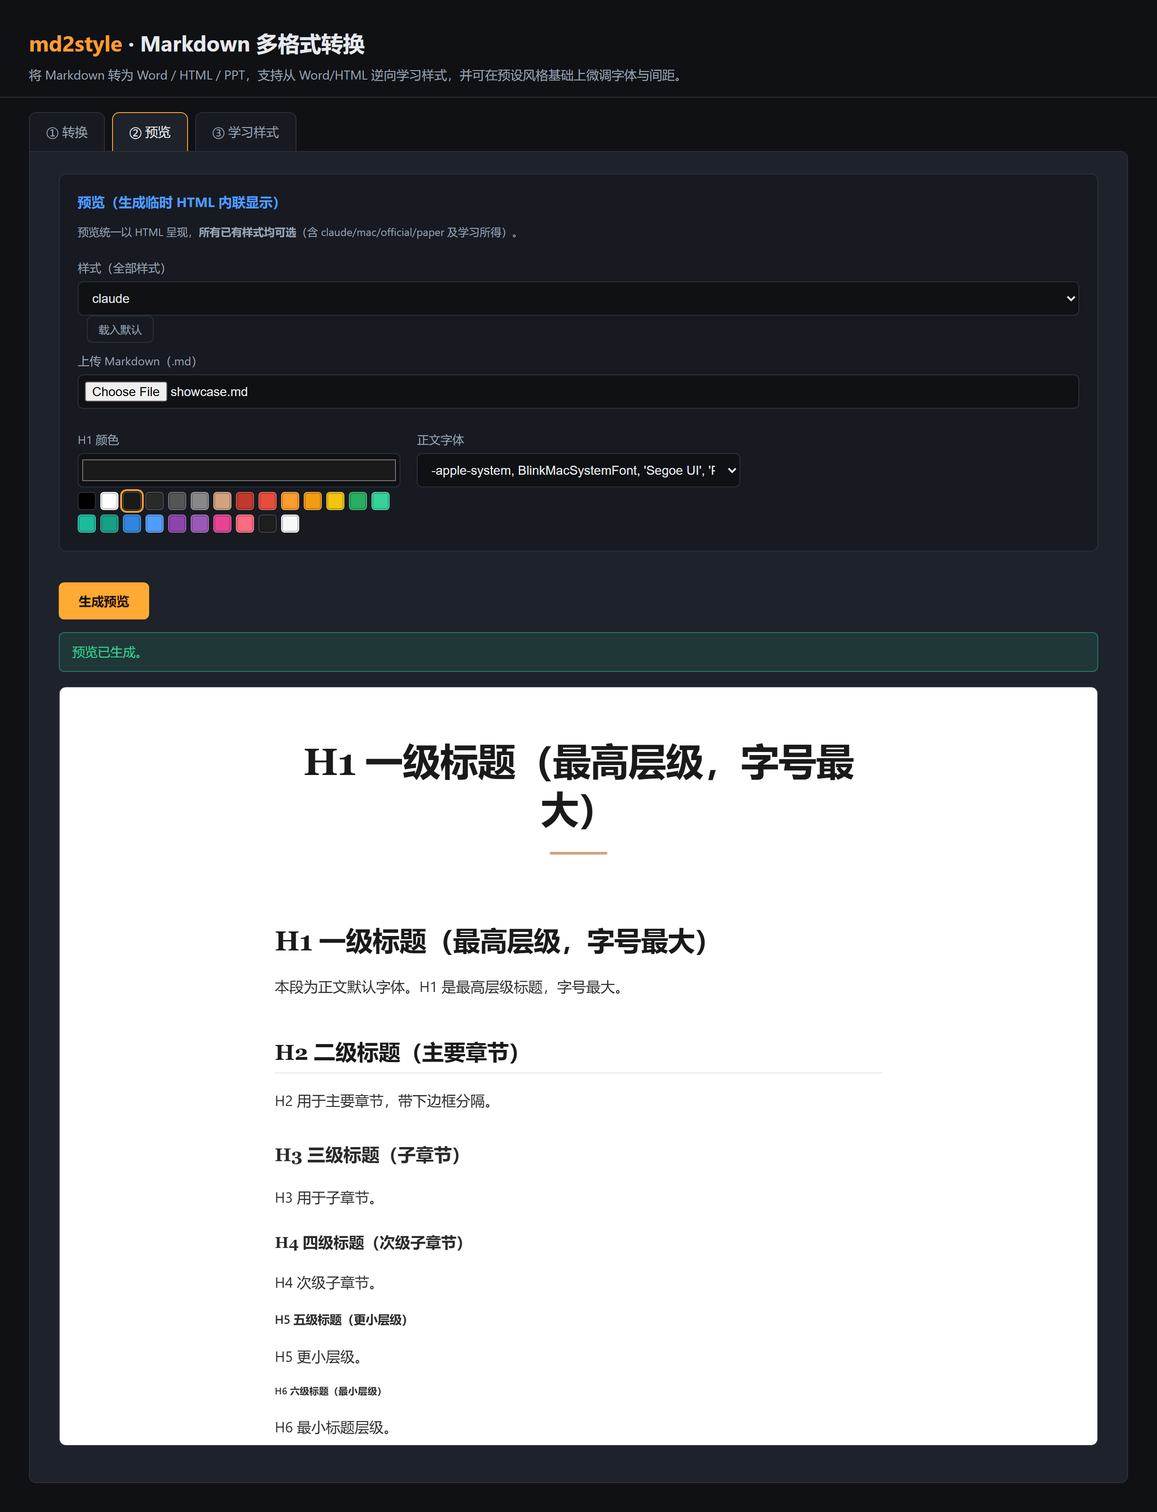
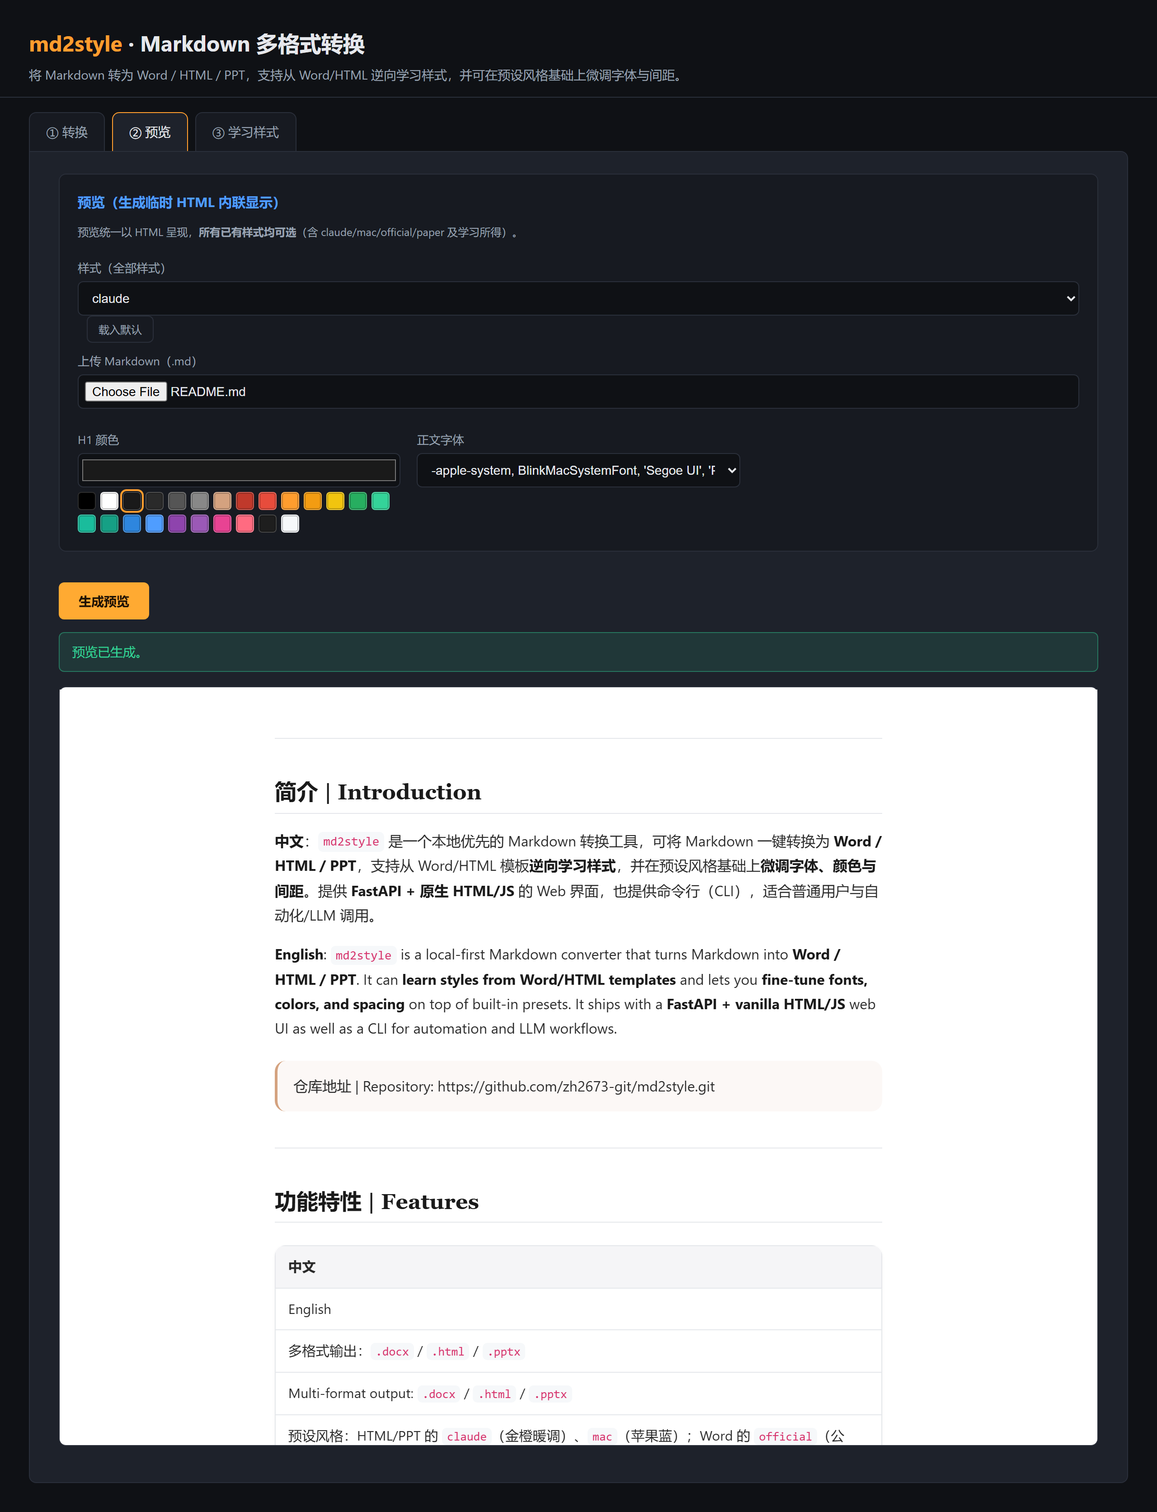
docs: 用README作为预览样本重截，并将截图拼成组合图

diff --git a/examples/_upload_tmp.preview.html b/examples/_upload_tmp.preview.html
@@ -1,0 +1,249 @@
+<!DOCTYPE html>
+<html lang="zh">
+<head>
+<meta charset="utf-8">
+<meta name="viewport" content="width=device-width, initial-scale=1">
+<title>md2style</title>
+<style>
+pre { line-height: 125%; }
+td.linenos .normal { color: inherit; background-color: transparent; padding-left: 5px; padding-right: 5px; }
+span.linenos { color: inherit; background-color: transparent; padding-left: 5px; padding-right: 5px; }
+td.linenos .special { color: #000000; background-color: #ffffc0; padding-left: 5px; padding-right: 5px; }
+span.linenos.special { color: #000000; background-color: #ffffc0; padding-left: 5px; padding-right: 5px; }
+.highlight .hll { background-color: #ffffcc }
+.highlight { background: #f8f8f8; }
+.highlight .c { color: #3D7B7B; font-style: italic } /* Comment */
+.highlight .err { border: 1px solid #F00 } /* Error */
+.highlight .k { color: #008000; font-weight: bold } /* Keyword */
+.highlight .o { color: #666 } /* Operator */
+.highlight .ch { color: #3D7B7B; font-style: italic } /* Comment.Hashbang */
+.highlight .cm { color: #3D7B7B; font-style: italic } /* Comment.Multiline */
+.highlight .cp { color: #9C6500 } /* Comment.Preproc */
+.highlight .cpf { color: #3D7B7B; font-style: italic } /* Comment.PreprocFile */
+.highlight .c1 { color: #3D7B7B; font-style: italic } /* Comment.Single */
+.highlight .cs { color: #3D7B7B; font-style: italic } /* Comment.Special */
+.highlight .gd { color: #A00000 } /* Generic.Deleted */
+.highlight .ge { font-style: italic } /* Generic.Emph */
+.highlight .ges { font-weight: bold; font-style: italic } /* Generic.EmphStrong */
+.highlight .gr { color: #E40000 } /* Generic.Error */
+.highlight .gh { color: #000080; font-weight: bold } /* Generic.Heading */
+.highlight .gi { color: #008400 } /* Generic.Inserted */
+.highlight .go { color: #717171 } /* Generic.Output */
+.highlight .gp { color: #000080; font-weight: bold } /* Generic.Prompt */
+.highlight .gs { font-weight: bold } /* Generic.Strong */
+.highlight .gu { color: #800080; font-weight: bold } /* Generic.Subheading */
+.highlight .gt { color: #04D } /* Generic.Traceback */
+.highlight .kc { color: #008000; font-weight: bold } /* Keyword.Constant */
+.highlight .kd { color: #008000; font-weight: bold } /* Keyword.Declaration */
+.highlight .kn { color: #008000; font-weight: bold } /* Keyword.Namespace */
+.highlight .kp { color: #008000 } /* Keyword.Pseudo */
+.highlight .kr { color: #008000; font-weight: bold } /* Keyword.Reserved */
+.highlight .kt { color: #B00040 } /* Keyword.Type */
+.highlight .m { color: #666 } /* Literal.Number */
+.highlight .s { color: #BA2121 } /* Literal.String */
+.highlight .na { color: #687822 } /* Name.Attribute */
+.highlight .nb { color: #008000 } /* Name.Builtin */
+.highlight .nc { color: #00F; font-weight: bold } /* Name.Class */
+.highlight .no { color: #800 } /* Name.Constant */
+.highlight .nd { color: #A2F } /* Name.Decorator */
+.highlight .ni { color: #717171; font-weight: bold } /* Name.Entity */
+.highlight .ne { color: #CB3F38; font-weight: bold } /* Name.Exception */
+.highlight .nf { color: #00F } /* Name.Function */
+.highlight .nl { color: #767600 } /* Name.Label */
+.highlight .nn { color: #00F; font-weight: bold } /* Name.Namespace */
+.highlight .nt { color: #008000; font-weight: bold } /* Name.Tag */
+.highlight .nv { color: #19177C } /* Name.Variable */
+.highlight .ow { color: #A2F; font-weight: bold } /* Operator.Word */
+.highlight .w { color: #BBB } /* Text.Whitespace */
+.highlight .mb { color: #666 } /* Literal.Number.Bin */
+.highlight .mf { color: #666 } /* Literal.Number.Float */
+.highlight .mh { color: #666 } /* Literal.Number.Hex */
+.highlight .mi { color: #666 } /* Literal.Number.Integer */
+.highlight .mo { color: #666 } /* Literal.Number.Oct */
+.highlight .sa { color: #BA2121 } /* Literal.String.Affix */
+.highlight .sb { color: #BA2121 } /* Literal.String.Backtick */
+.highlight .sc { color: #BA2121 } /* Literal.String.Char */
+.highlight .dl { color: #BA2121 } /* Literal.String.Delimiter */
+.highlight .sd { color: #BA2121; font-style: italic } /* Literal.String.Doc */
+.highlight .s2 { color: #BA2121 } /* Literal.String.Double */
+.highlight .se { color: #AA5D1F; font-weight: bold } /* Literal.String.Escape */
+.highlight .sh { color: #BA2121 } /* Literal.String.Heredoc */
+.highlight .si { color: #A45A77; font-weight: bold } /* Literal.String.Interpol */
+.highlight .sx { color: #008000 } /* Literal.String.Other */
+.highlight .sr { color: #A45A77 } /* Literal.String.Regex */
+.highlight .s1 { color: #BA2121 } /* Literal.String.Single */
+.highlight .ss { color: #19177C } /* Literal.String.Symbol */
+.highlight .bp { color: #008000 } /* Name.Builtin.Pseudo */
+.highlight .fm { color: #00F } /* Name.Function.Magic */
+.highlight .vc { color: #19177C } /* Name.Variable.Class */
+.highlight .vg { color: #19177C } /* Name.Variable.Global */
+.highlight .vi { color: #19177C } /* Name.Variable.Instance */
+.highlight .vm { color: #19177C } /* Name.Variable.Magic */
+.highlight .il { color: #666 } /* Literal.Number.Integer.Long */
+:root {
+  --h1-size: 30px; --h1-color: #1a1a1a; --h1-font: Georgia, 'Microsoft YaHei', 'PingFang SC', serif;
+  --h2-size: 24px; --h2-color: #1A1A1A; --h2-font: Georgia, 'Microsoft YaHei', 'PingFang SC', serif;
+  --h3-size: 20px; --h3-color: #2A2A2A; --h3-font: Georgia, 'Microsoft YaHei', 'PingFang SC', serif;
+  --h4-size: 17px; --h4-color: #2A2A2A; --h4-font: Georgia, 'Microsoft YaHei', 'PingFang SC', serif;
+  --h5-size: 15px; --h5-color: #2A2A2A; --h5-font: Georgia, 'Microsoft YaHei', 'PingFang SC', serif;
+  --h6-size: 14px; --h6-color: #2A2A2A; --h6-font: Georgia, 'Microsoft YaHei', 'PingFang SC', serif;
+  --body-size: 16px; --body-color: #2A2A2A; --body-font: -apple-system, BlinkMacSystemFont, 'Segoe UI', 'PingFang SC', sans-serif;
+  --line-height: 1.7;
+  --para-spacing: 1.0em;
+  --code-bg: #F6F8FA; --code-color: #D6336C;
+  --divider: #E5E7EB;
+  --card-bg: #F5F5F7;
+  --card-radius: 12px;
+  --accent: #D4A27F;
+}
+* { box-sizing: border-box; }
+body {
+  font-family: var(--body-font); font-size: var(--body-size); color: var(--body-color);
+  line-height: var(--line-height); max-width: 720px; margin: 56px auto; padding: 0 24px;
+  -webkit-font-smoothing: antialiased;
+}
+.hero { font-size: calc(var(--h1-size) * 1.4); text-align: center; margin: 1.2em 0 0.8em; position: relative; padding-bottom: 0.4em; }
+.hero::after { content: ""; display: block; width: 64px; height: 3px; border-radius: 2px; background: var(--accent); margin: 0.5em auto 0; }
+h1 { font-size: var(--h1-size); color: var(--h1-color); font-family: var(--h1-font); font-weight: 700; letter-spacing: -0.01em; line-height: 1.25; margin: 2em 0 0.6em; }
+h2 { font-size: var(--h2-size); color: var(--h2-color); font-family: var(--h2-font); font-weight: 700; line-height: 1.3; margin: 1.8em 0 0.5em; padding-bottom: 0.3em; border-bottom: 1px solid var(--divider); }
+h3 { font-size: var(--h3-size); color: var(--h3-color); font-family: var(--h3-font); font-weight: 600; margin: 1.5em 0 0.4em; }
+h4 { font-size: var(--h4-size); color: var(--h4-color); font-family: var(--h4-font); font-weight: 600; margin: 1.3em 0 0.4em; }
+h5, h6 { font-weight: 600; margin: 1.2em 0 0.3em; }
+p { margin: var(--para-spacing) 0; }
+strong { font-weight: 700; color: var(--h1-color); }
+em { font-style: italic; }
+a { color: var(--accent); text-decoration: none; border-bottom: 1px solid color-mix(in srgb, var(--accent) 40%, transparent); }
+a:hover { border-bottom-color: var(--accent); }
+ul, ol { margin: 1em 0; padding-left: 1.5em; }
+li { margin: 0.4em 0; }
+li::marker { color: var(--accent); }
+hr { border: none; border-top: 1px solid var(--divider); margin: 2.5em 0; }
+blockquote {
+  border-left: 3px solid var(--accent); margin: 1.4em 0; padding: 0.6em 1.1em;
+  background: color-mix(in srgb, var(--accent) 7%, transparent); border-radius: var(--card-radius);
+  color: var(--body-color);
+}
+blockquote p { margin: 0.3em 0; }
+code { font-family: Menlo, Monaco, Consolas, monospace, monospace; font-size: 0.88em; background: var(--code-bg); color: var(--code-color); padding: 0.15em 0.4em; border-radius: 5px; }
+pre {
+  background: var(--code-bg); border-radius: var(--card-radius); margin: 1.4em 0; overflow: auto;
+  border: 1px solid var(--divider); box-shadow: 0 1px 3px rgba(0,0,0,0.06);
+}
+pre code { background: none; color: inherit; padding: 0; border-radius: 0; display: block; padding: 16px 18px; font-size: 0.85em; line-height: 1.6; }
+.code-label { display: block; font-size: 0.72em; color: #888; padding: 8px 16px; border-bottom: 1px solid var(--divider); letter-spacing: 0.04em; text-transform: uppercase; background: color-mix(in srgb, var(--code-bg) 80%, #000 0%); }
+.card { background: var(--card-bg); border-radius: var(--card-radius); padding: 18px 22px; margin: 1.4em 0; box-shadow: 0 2px 10px rgba(0,0,0,0.06); }
+img { max-width: 100%; border-radius: var(--card-radius); margin: 1.4em 0; box-shadow: 0 2px 10px rgba(0,0,0,0.06); }
+.footer { margin-top: 4em; padding-top: 1.5em; border-top: 1px solid var(--divider); font-size: 0.85em; color: #888; text-align: center; }
+table { border-collapse: collapse; width: 100%; margin: 1.6em 0; font-size: 0.95em; border-radius: var(--card-radius); overflow: hidden; box-shadow: 0 1px 3px rgba(0,0,0,0.05); }
+table thead { background: var(--card-bg); }
+table th, table td { border: 1px solid var(--divider); padding: 10px 14px; text-align: left; }
+table th { font-weight: 600; }
+</style>
+</head>
+<body>
+<hr>
+<h2>简介 | Introduction</h2>
+<p><strong>中文</strong>：<code>md2style</code> 是一个本地优先的 Markdown 转换工具，可将 Markdown 一键转换为 <strong>Word / HTML / PPT</strong>，支持从 Word/HTML 模板<strong>逆向学习样式</strong>，并在预设风格基础上<strong>微调字体、颜色与间距</strong>。提供 <strong>FastAPI + 原生 HTML/JS</strong> 的 Web 界面，也提供命令行（CLI），适合普通用户与自动化/LLM 调用。</p>
+<p><strong>English</strong>: <code>md2style</code> is a local-first Markdown converter that turns Markdown into <strong>Word / HTML / PPT</strong>. It can <strong>learn styles from Word/HTML templates</strong> and lets you <strong>fine-tune fonts, colors, and spacing</strong> on top of built-in presets. It ships with a <strong>FastAPI + vanilla HTML/JS</strong> web UI as well as a CLI for automation and LLM workflows.</p>
+<blockquote><p>仓库地址 | Repository: https://github.com/zh2673-git/md2style.git</p></blockquote>
+<hr>
+<h2>功能特性 | Features</h2>
+<table><thead><tr><th>中文</th></tr></thead><tbody><tr><td>English</td></tr><tr><td>多格式输出：<code>.docx</code> / <code>.html</code> / <code>.pptx</code></td></tr><tr><td>Multi-format output: <code>.docx</code> / <code>.html</code> / <code>.pptx</code></td></tr><tr><td>预设风格：HTML/PPT 的 <code>claude</code>（金橙暖调）、<code>mac</code>（苹果蓝）；Word 的 <code>official</code>（公文）、<code>paper</code>（论文）</td></tr><tr><td>Built-in presets: <code>claude</code> (warm gold/orange) / <code>mac</code> (Apple blue) for HTML/PPT; <code>official</code> / <code>paper</code> for Word</td></tr><tr><td>从 Word/HTML <strong>学习新样式</strong>，生成 YAML 预设</td></tr><tr><td><strong>Learn new styles</strong> from Word/HTML templates and save as YAML presets</td></tr><tr><td>在预设风格上微调：H1–H6 字号/颜色/字体、正文字体/字号/颜色/行距/段间距、代码块配色</td></tr><tr><td>Fine-tune on presets: H1–H6 size/color/font, body font/size/color/line-height/spacing, code block colors</td></tr><tr><td>Web 界面三区 Tab（转换 / 预览 / 学习管理），互不阻塞</td></tr><tr><td>Web UI with three tabs (Convert / Preview / Learn &amp; Manage) that don't block each other</td></tr><tr><td>CLI 子命令参数经白名单校验，防止未知参数扩散</td></tr><tr><td>CLI arguments validated against an allow-list to block hallucinated parameters</td></tr></tbody></table>
+<hr>
+<h2>界面截图 | Screenshots</h2>
+<blockquote><p>以下截图来自真实运行的 Web 界面（<code>http://127.0.0.1:8080</code>）。</p><p>Screenshots are captured from the running local web interface.</p></blockquote>
+<h3>① 转换 Tab（颜色色板 + 字体下拉 + 数字微调）</h3>
+<p>| Convert Tab with color swatches, font dropdowns, and number inputs |
+|---|---|
+| <a href="docs/screenshots/web-convert.png">[图片: ]</a> |</p>
+<h3>② 预览 Tab（实时生成 HTML 并内联显示）</h3>
+<p>| Preview Tab renders HTML inline in real time |
+|---|---|
+| <a href="docs/screenshots/web-preview.png">[图片: ]</a> |</p>
+<h3>③ 学习样式 / 管理已有样式（载入/新建空白/另存/删除）</h3>
+<p>| Learn &amp; Manage styles (load / create blank / save-as / delete) |
+|---|---|
+| <a href="docs/screenshots/web-learn.png">[图片: ]</a> |</p>
+<hr>
+<h2>安装 | Installation</h2>
+<p>需要 Python 3.10+。/ Requires Python 3.10+.</p>
+<pre><span class="code-label">bash</span><code><span class="nb">cd</span><span class="w"> </span>md2style
+
+<span class="c1"># 方式一：Poetry（推荐） / Option 1: Poetry (recommended)</span>
+poetry<span class="w"> </span>install
+
+<span class="c1"># 方式二：pip / Option 2: pip</span>
+pip<span class="w"> </span>install<span class="w"> </span>python-docx<span class="w"> </span>python-pptx<span class="w"> </span>Jinja2<span class="w"> </span>Pygments<span class="w"> </span>PyYAML<span class="w"> </span>markdown-it-py<span class="w"> </span>fastapi<span class="w"> </span>uvicorn<span class="w"> </span>playwright
+</code></pre>
+<hr>
+<h2>快速开始 | Quick Start</h2>
+<h3>A. Web 界面（推荐） | Web UI (recommended)</h3>
+<pre><span class="code-label">bash</span><code>python<span class="w"> </span>-m<span class="w"> </span>md2style.interfaces.web
+</code></pre>
+<p>浏览器打开 | Open in browser: http://127.0.0.1:8080</p>
+<p>界面顶部有三个 Tab：/ The top has three tabs:</p>
+<ol><li><strong>转换 | Convert</strong>：上传 <code>.md</code> → 选输出格式 → 选样式 → 微调字段默认显示当前风格取值 → 转换下载</li><li><strong>预览 | Preview</strong>：上传 <code>.md</code> → 选样式 → 生成临时 HTML 并内联显示（无需下载）</li><li><strong>学习样式 | Learn</strong>：上传 Word/HTML 模板，命名后即可在样式下拉中使用</li><li><strong>管理已有样式 | Manage</strong>：载入任意 <code>.yaml</code> 查看/编辑/保存；新建空白样式；另存为新样式；删除样式（二次确认）</li></ol>
+<p>一键启动脚本：/ One-click startup:</p>
+<pre><span class="code-label">bash</span><code>python<span class="w"> </span>start_web.py
+</code></pre>
+<p>API 文档：/ API docs: http://127.0.0.1:8080/docs</p>
+<h3>B. 命令行 | CLI</h3>
+<pre><span class="code-label">bash</span><code><span class="c1"># 转换为 Word（论文风格） / Convert to Word (paper style)</span>
+python<span class="w"> </span>-m<span class="w"> </span>md2style.cli<span class="w"> </span>convert<span class="w"> </span>-i<span class="w"> </span>examples/complex.md<span class="w"> </span>-o<span class="w"> </span>out.docx<span class="w"> </span>-s<span class="w"> </span>paper
+
+<span class="c1"># 转换为 HTML（claude 风格 + 微调） / Convert to HTML (claude style + tune)</span>
+python<span class="w"> </span>-m<span class="w"> </span>md2style.cli<span class="w"> </span>convert<span class="w"> </span>-i<span class="w"> </span>examples/complex.md<span class="w"> </span>-o<span class="w"> </span>out.html<span class="w"> </span>-s<span class="w"> </span>claude<span class="w"> </span><span class="se">\</span>
+<span class="w">    </span>--h1-size<span class="w"> </span><span class="m">40</span><span class="w"> </span>--h2-color<span class="w"> </span><span class="c1">#C0392B --body-size 18 --para-spacing 1.4 \</span>
+<span class="w">    </span>--code-bg<span class="w"> </span><span class="c1">#1E1E1E --code-color #D4D4D4</span>
+
+<span class="c1"># 转换为 PPT（mac 风格） / Convert to PPT (mac style)</span>
+python<span class="w"> </span>-m<span class="w"> </span>md2style.cli<span class="w"> </span>convert<span class="w"> </span>-i<span class="w"> </span>examples/complex.md<span class="w"> </span>-o<span class="w"> </span>out.pptx<span class="w"> </span>-s<span class="w"> </span>mac
+
+<span class="c1"># 生成临时 HTML 预览 / Generate temporary HTML preview</span>
+python<span class="w"> </span>-m<span class="w"> </span>md2style.cli<span class="w"> </span>preview<span class="w"> </span>-i<span class="w"> </span>examples/complex.md<span class="w"> </span>-s<span class="w"> </span>claude
+
+<span class="c1"># 从模板学习样式 / Learn style from template</span>
+python<span class="w"> </span>-m<span class="w"> </span>md2style.cli<span class="w"> </span>learn<span class="w"> </span>-t<span class="w"> </span>my_template.docx<span class="w"> </span>-n<span class="w"> </span>my_company
+</code></pre>
+<hr>
+<h2>微调参数一览 | Fine-tune Parameters (CLI)</h2>
+<p>在所选风格基础上覆盖，留空则使用默认。/ Override selected style values; omit to keep defaults.</p>
+<table><thead><tr><th>参数 / Parameter</th></tr></thead><tbody><tr><td>说明 / Description</td></tr><tr><td><code>--h1-size</code> … <code>--h6-size</code></td></tr><tr><td>H1–H6 字号 / H1–H6 font size</td></tr><tr><td><code>--h1-color</code> … <code>--h6-color</code></td></tr><tr><td>H1–H6 颜色 / H1–H6 color</td></tr><tr><td><code>--h1-font</code> … <code>--h6-font</code></td></tr><tr><td>H1–H6 字体 / H1–H6 font</td></tr><tr><td><code>--body-font</code></td></tr><tr><td>正文字体 / Body font</td></tr><tr><td><code>--body-size</code></td></tr><tr><td>正文字号 / Body font size</td></tr><tr><td><code>--body-color</code></td></tr><tr><td>正文颜色 / Body color</td></tr><tr><td><code>--line-height</code></td></tr><tr><td>正文行距 / Body line height</td></tr><tr><td><code>--para-spacing</code></td></tr><tr><td>段落间距（em）/ Paragraph spacing (em)</td></tr><tr><td><code>--code-font</code></td></tr><tr><td>代码字体 / Code font</td></tr><tr><td><code>--code-size</code></td></tr><tr><td>代码字号 / Code font size</td></tr><tr><td><code>--code-color</code></td></tr><tr><td>代码颜色 / Code color</td></tr><tr><td><code>--code-bg</code></td></tr><tr><td>代码背景 / Code background</td></tr><tr><td><code>--template</code></td></tr><tr><td>docx 模板（dotx）名 / docx template (dotx) name</td></tr></tbody></table>
+<p>Web 界面中上述参数对应为：颜色字段为色板、字体字段为下拉、数字字段为数字框，切换样式自动回填当前风格默认值。/ In the web UI: colors are swatches, fonts are dropdowns, sizes are number inputs, and changing the style auto-fills the preset values.</p>
+<hr>
+<h2>样式优先级 | Style Priority</h2>
+<pre><span class="code-label">text</span><code>DEFAULT（硬编码兜底） &lt; YAML（预设/学习所得） &lt; CLI/Web 微调参数
+DEFAULT (hard-coded fallback) &lt; YAML (presets / learned) &lt; CLI/Web fine-tune overrides
+</code></pre>
+<p>合并后经 <code>StyleEngine.validate</code> 校验（颜色格式、字号范围、字体存在性），非法参数直接报错，不会生成脏文件。/ After merging, <code>StyleEngine.validate</code> checks color format, size ranges, and font availability; invalid values raise errors instead of producing broken files.</p>
+<hr>
+<h2>项目结构 | Project Structure</h2>
+<pre><span class="code-label">text</span><code>md2style/
+├── cli.py                  # CLI 入口 / CLI entry
+├── orchestrator.py         # 子命令路由 + 参数白名单 + 编排 / Routing + allow-list + orchestration
+├── core/                   # 常量、IR、错误类型 / Constants, IR, errors
+├── engines/
+│   ├── md_parser.py        # Markdown -&gt; IR（markdown-it）
+│   ├── style_engine.py     # 三层优先级合并 + 校验 / Three-level merge + validation
+│   └── learner.py          # Word/HTML -&gt; YAML 样式预设 / Word/HTML -&gt; YAML preset
+├── renderers/              # docx / html / pptx 渲染器 / Renderers
+├── interfaces/
+│   └── web/                # 本地 Web 界面（FastAPI + 原生 HTML/JS） / Local web UI
+└── utils/                  # 颜色/字体/日志工具 / Color/font/log utilities
+styles/                     # 预设样式 YAML / Preset YAML styles
+examples/                   # 示例 md 与生成产物 / Sample markdown and outputs
+tests/                      # 单元测试 / Unit tests
+</code></pre>
+<hr>
+<h2>测试 | Tests</h2>
+<pre><span class="code-label">bash</span><code>pytest
+</code></pre>
+<hr>
+<h2>设计原则 | Design Principles</h2>
+<ul><li><strong>白名单机制 / Allow-list only</strong>：CLI/Web 仅接受已知参数，未知参数一律拦截，杜绝 LLM 幻觉扩散。/ Only known parameters are accepted; unknown parameters are rejected to prevent LLM hallucinations from spreading downstream.</li><li><strong>界面无业务规则 / UI holds no business rules</strong>：Web/CLI 只做参数采集与展示，所有规则在 Orchestrator / Engines / Renderers 中统一处理。/ Web/CLI only collect and display parameters; all rules live in the orchestrator/engines/renderers.</li><li><strong>可学习 / Learnable</strong>：用户看到好模板即可“拖入即学”，沉淀为可复用的 YAML 预设。/ Users can drop in any nice template to learn its style and turn it into a reusable YAML preset.</li></ul>
+<hr>
+<h2>License</h2>
+<p>MIT © zh2673-git</p>
+<div class="footer">由 md2style 生成 · 样式可经 Web 界面微调</div>
+</body>
+</html>

diff --git a/examples/_upload_tmp.md b/examples/_upload_tmp.md
@@ -35,19 +35,23 @@
 
 ## 界面截图 | Screenshots
 
-> 以下截图来自真实运行的 Web 界面（`http://127.0.0.1:8080`）；预览样本即本 README 文件本身。
-> Screenshots are captured from the running local web interface; the preview sample is this very README file.
+> 以下截图来自真实运行的 Web 界面（`http://127.0.0.1:8080`）。
+> Screenshots are captured from the running local web interface.
 
-### 总览 | Overview
-
-| 转换（微调） · 预览（本 README） · 学习/管理 | Convert (tune) · Preview (this README) · Learn & Manage |
+### ① 转换 Tab（颜色色板 + 字体下拉 + 数字微调）
+| Convert Tab with color swatches, font dropdowns, and number inputs |
 |---|---|
-| ![overview](docs/screenshots/web-overview.png) |
+| ![convert](docs/screenshots/web-convert.png) |
 
-### 预览效果（本仓库 README 渲染后的 HTML）
-| Preview of this README rendered as HTML |
+### ② 预览 Tab（实时生成 HTML 并内联显示）
+| Preview Tab renders HTML inline in real time |
 |---|---|
 | ![preview](docs/screenshots/web-preview.png) |
+
+### ③ 学习样式 / 管理已有样式（载入/新建空白/另存/删除）
+| Learn & Manage styles (load / create blank / save-as / delete) |
+|---|---|
+| ![learn](docs/screenshots/web-learn.png) |
 
 ---
 
